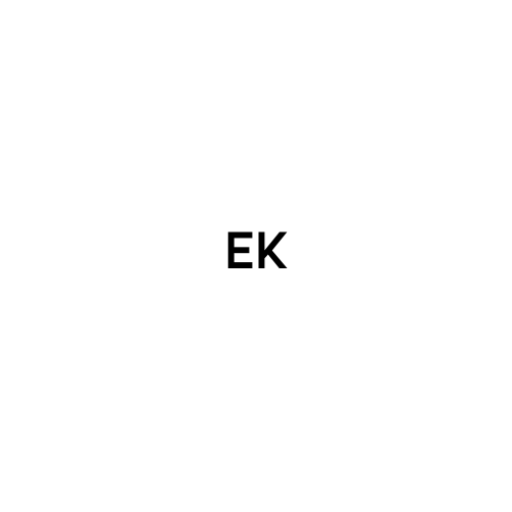
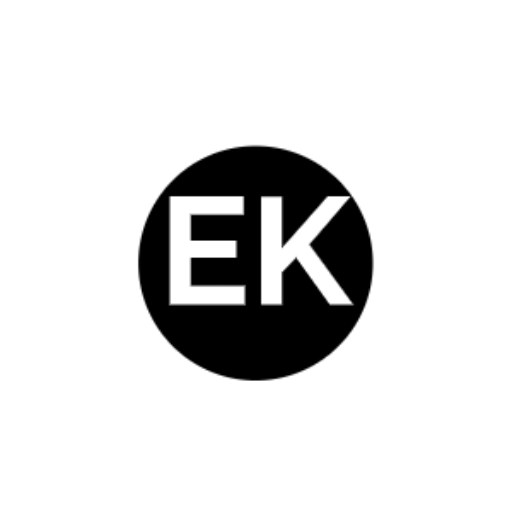
Updated images
Updated images for favicon

Changed region(s): [[0.25, 0.2812, 0.75, 0.75]]

diff --git a/index.html b/index.html
@@ -14,6 +14,7 @@
     <script src="https://kit.fontawesome.com/5db21ba9c6.js" crossorigin="anonymous"></script>
 
     <link href="css/site.css" rel="stylesheet">
+    <link rel="icon" type="image/png" href="img/favicon-32x32.png">
 
 </head>
 
